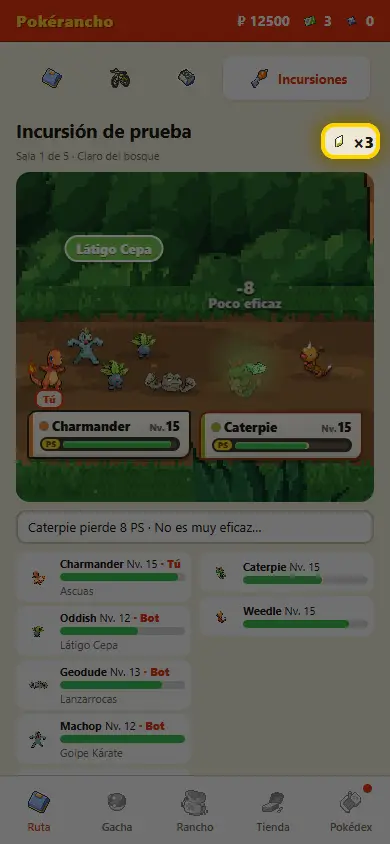
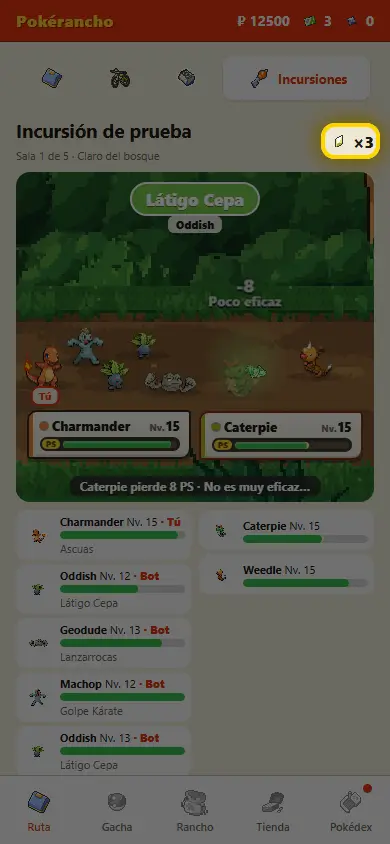
Incursiones: el ataque arriba en el centro y una línea de texto abajo
- El ataque que se usa sale arriba en el centro de la escena, grande y del color
  de su tipo, con quién lo usa debajo (antes, sobre cada Pokémon).
- Lo que pasa, en una línea pequeña abajo de la escena (antes, en un recuadro
  aparte).
- Encima de cada Pokémon, lo que le pasa: -X al golpearlo y +X en verde al
  curarlo.

diff --git a/src/ui/incursion/StageFighter.tsx b/src/ui/incursion/StageFighter.tsx
@@ -1,7 +1,5 @@
 import type { CSSProperties } from 'react'
-import { battleMove } from '../../data/learnsets'
 import { STATUS_INFO } from '../../data/passives'
-import { TYPE_INFO } from '../../data/types'
 import { EventKind } from '../../game/incursion/events'
 import { HitEffect } from '../route/HitEffect'
 import { statusClass } from '../route/battleFrame'
@@ -12,8 +10,6 @@ import { StagePop } from './StagePop'
 
 /** Tamaño del sprite de cada uno: el tuyo algo mayor, los rivales como en la ruta y el jefe más grande */
 const SIZE = { party: 84, mine: 96, foe: 104, boss: 150 }
-/** Eventos tras lanzar un ataque durante los que se sigue viendo su nombre (sus golpes) */
-const CALLOUT_EVENTS = 3
 
 export interface Spot {
   left: number
@@ -33,17 +29,16 @@ interface Props {
 }
 
 /**
- * Un Pokémon de la incursión como los del combate de ruta: encima, el nombre del ataque que lanza (del color de su tipo)
- * y los números de lo que le pasa; el efecto del golpe; embiste al atacar, tiembla al recibir, el estado alterado se ve
+ * Un Pokémon de la incursión como los del combate de ruta: encima, lo que le pasa (el golpe, una cura en verde, un
+ * estado…); el efecto del golpe; embiste al atacar, tiembla al recibir, el estado alterado se ve
  * en el sprite y, al caer, el rival se va y el del grupo se queda tumbado
  */
 export function StageFighter({ m, spot, side, mine, scene, idleDelay }: Props) {
-  const { current: e, seq, move } = scene
+  const { current: e, seq } = scene
   const mineEvent = e?.target === m.id ? e : null
   const acting = e?.kind === EventKind.Move && e.actor === m.id
   const struck = mineEvent?.kind === EventKind.Hit || mineEvent?.kind === EventKind.Miss
   const down = m.hp === 0 || m.out
-  const callout = move && move.actor === m.id && seq - move.seq < CALLOUT_EVENTS ? battleMove(move.moveId) : null
   const fxType = mineEvent?.kind === EventKind.Hit ? (mineEvent.status ? STATUS_INFO[mineEvent.status].type : mineEvent.type) : mineEvent?.kind === EventKind.Status && mineEvent.status ? STATUS_INFO[mineEvent.status].type : undefined
   const style = {
     left: `${spot.left}%`,
@@ -57,11 +52,6 @@ export function StageFighter({ m, spot, side, mine, scene, idleDelay }: Props) {
 
   return (
     <div className={`incursion-fighter ${side} ${fallen}`} style={style}>
-      {callout && (
-        <span key={move!.seq} className="move-callout" style={{ ['--type-color' as string]: TYPE_INFO[callout.type].color } as CSSProperties}>
-          {callout.name}
-        </span>
-      )}
       {mineEvent && <StagePop e={mineEvent} seq={seq} />}
       {fxType && <HitEffect key={`fx-${seq}`} type={fxType} />}
       {mine && <span className="raid-mine-tag">Tú</span>}

diff --git a/src/ui/incursion/IncursionStage.tsx b/src/ui/incursion/IncursionStage.tsx
@@ -3,7 +3,8 @@ import { EventKind } from '../../game/incursion/events'
 import { BattleHud } from '../route/BattleHud'
 import { WalkScene } from '../route/WalkScene'
 import { partySpot } from '../raid/partySpot'
-import type { SceneMon, SceneState } from './sceneState'
+import { MoveBanner } from './MoveBanner'
+import { eventLine, type SceneMon, type SceneState } from './sceneState'
 import { StageFighter, type Spot } from './StageFighter'
 import '../route/battle.css'
 import '../route/battle-callouts.css'
@@ -38,7 +39,8 @@ function shownFoe(scene: SceneState): SceneMon | undefined {
 
 /**
  * La sala que se está jugando, como un combate de ruta: el grupo a la izquierda y los rivales a la derecha, con el
- * marcador de tu Pokémon y el del rival en juego a sus pies, el destello del crítico y el aviso del jefe
+ * marcador de tu Pokémon y el del rival en juego a sus pies, el destello del crítico y el aviso del jefe. Arriba en el
+ * centro, el ataque que se usa; abajo, una línea con lo que pasa
  */
 export function IncursionStage({ biome, scene, uid }: { biome: Biome; scene: SceneState; uid: string }) {
   const e = scene.current
@@ -59,6 +61,7 @@ export function IncursionStage({ biome, scene, uid }: { biome: Biome; scene: Sce
           {scene.foes.map((m, i) => (
             <StageFighter key={m.id} m={m} spot={foeSpot(i, scene.foes.length)} side="foe" mine={false} scene={scene} idleDelay={-i * IDLE_PHASE_S} />
           ))}
+          <MoveBanner scene={scene} />
           {bossWarning && <div className="boss-warning">¡Un jefe os corta el paso!</div>}
           {mine && (
             <div className="battle-hud-slot player">
@@ -70,6 +73,7 @@ export function IncursionStage({ biome, scene, uid }: { biome: Biome; scene: Sce
               <BattleHud fighter={foe} hp={foe.hp} status={foe.status} boss={foe.boss} struck={struck(foe.id)} />
             </div>
           )}
+          <p className="incursion-caption">{eventLine(scene)}</p>
         </div>
       </WalkScene>
     </div>

diff --git a/src/ui/incursion/incursion-stage.css b/src/ui/incursion/incursion-stage.css
@@ -44,3 +44,59 @@
 .incursion-stage .battle-hud-slot.boss {
   left: 74%;
 }
+/* El ataque que se usa, arriba en el centro (como el nombre del ataque de la ruta, pero más grande) y quién lo usa */
+.incursion-move-banner {
+  position: absolute;
+  top: 12px;
+  left: 50%;
+  z-index: 3;
+  translate: -50% 0;
+  display: flex;
+  flex-direction: column;
+  align-items: center;
+  gap: 2px;
+  animation: callout-in 0.25s ease-out;
+}
+.incursion-move-name {
+  padding: 4px 14px;
+  border-radius: 99px;
+  background: var(--type-color);
+  color: #fff;
+  font-size: 17px;
+  font-weight: 900;
+  white-space: nowrap;
+  text-shadow: 0 1px 0 #0006;
+  box-shadow:
+    0 0 0 2px #fff,
+    0 3px 8px #0005;
+}
+.incursion-move-user {
+  padding: 1px 8px;
+  border-radius: 6px;
+  background: #fbfbf2dd;
+  color: var(--text);
+  font-size: 11px;
+  font-weight: 800;
+}
+/* Lo que pasa, en pequeño, abajo de la escena */
+.incursion-caption {
+  position: absolute;
+  left: 50%;
+  bottom: 6px;
+  z-index: 3;
+  translate: -50% 0;
+  max-width: calc(100% - 16px);
+  margin: 0;
+  padding: 2px 10px;
+  border-radius: 8px;
+  background: #222c;
+  color: #fff;
+  font-size: 12px;
+  font-weight: 700;
+  white-space: nowrap;
+  overflow: hidden;
+  text-overflow: ellipsis;
+}
+.incursion-caption:empty {
+  display: none;
+}

diff --git a/src/ui/incursion/IncursionView.tsx b/src/ui/incursion/IncursionView.tsx
@@ -9,7 +9,7 @@ import { IncursionStage } from './IncursionStage'
 import { IncursionSummary } from './IncursionSummary'
 import { RegroupPanel } from './RegroupPanel'
 import { RetreatVote } from './RetreatVote'
-import { eventLine, sceneAt } from './sceneState'
+import { sceneAt } from './sceneState'
 import './incursion-view.css'
 
 /** La incursión en curso: sala, revivires y pasivas; la escena, lo que pasa, el grupo y, según el momento, reorganizar o el final */
@@ -45,7 +45,6 @@ export function IncursionView({ game, a }: { game: GameState; a: ActiveIncursion
         </div>
       )}
       <IncursionStage biome={inc.biome} scene={scene} uid={a.uid} />
-      <p className="incursion-log small">{eventLine(scene)}</p>
       {p.phase === IncursionPhase.Regroup && <RegroupPanel game={game} a={a} members={members} msLeft={p.regroupMsLeft} />}
       {p.phase === IncursionPhase.Finished && <IncursionSummary outcome={p.record.outcome} earned={p.record.earned} />}
       <IncursionRoster party={scene.party} foes={scene.foes} moveOf={moveOf} uid={a.uid} nicknames={a.online?.nicknames ?? {}} />

diff --git a/src/ui/incursion/MoveBanner.tsx b/src/ui/incursion/MoveBanner.tsx
@@ -1,0 +1,21 @@
+import type { CSSProperties } from 'react'
+import { battleMove } from '../../data/learnsets'
+import { TYPE_INFO } from '../../data/types'
+import type { SceneState } from './sceneState'
+
+/** Eventos tras lanzar un ataque durante los que se sigue viendo su nombre (mientras se ven sus golpes) */
+const BANNER_EVENTS = 3
+
+/** El ataque que se está usando, arriba en el centro de la escena y del color de su tipo; debajo, quién lo usa */
+export function MoveBanner({ scene }: { scene: SceneState }) {
+  const { move, seq } = scene
+  if (!move || seq - move.seq >= BANNER_EVENTS) return null
+  const mv = battleMove(move.moveId)
+  const user = [...scene.party, ...scene.foes].find((m) => m.id === move.actor)
+  return (
+    <div key={move.seq} className="incursion-move-banner" style={{ ['--type-color' as string]: TYPE_INFO[mv.type].color } as CSSProperties}>
+      <span className="incursion-move-name">{mv.name}</span>
+      {user && <span className="incursion-move-user">{user.name}</span>}
+    </div>
+  )
+}

diff --git a/src/ui/incursion/StagePop.tsx b/src/ui/incursion/StagePop.tsx
@@ -29,7 +29,7 @@ function popContent(e: IncursionEvent): ReactNode {
     case EventKind.Miss:
       return MISS_POP[e.miss ?? 'miss']
     case EventKind.Heal:
-      return `+${e.amount ?? 0} PS`
+      return `+${e.amount ?? 0}`
     case EventKind.Status:
       return e.status ? `¡${STATUS_INFO[e.status].name}!` : null
     case EventKind.Revive:

diff --git a/src/ui/incursion/incursion-view.css b/src/ui/incursion/incursion-view.css
@@ -33,14 +33,6 @@
   font-weight: 800;
   text-shadow: 0 1px 0 #0006;
 }
-.incursion-log {
-  min-height: 2.6em;
-  margin: 0;
-  padding: 6px 10px;
-  border-radius: 10px;
-  background: var(--card);
-  border: 2px solid var(--line);
-}
 .incursion-roster {
   display: grid;
   grid-template-columns: minmax(0, 1fr) minmax(0, 1fr);

diff --git a/CLAUDE.md b/CLAUDE.md
@@ -62,7 +62,7 @@ Cada `.ts` de `src/game` tiene su `.test.ts` al lado; las pantallas, su CSS en l
 | Cuenta opcional y partida en la nube: reglas compartidas y subir o bajar / sesión y correos / subir y bajar / pantallas / servidor | `game/core/accountRules.ts`, `cloudSave.ts` / `net/account.ts` / `net/cloudSync.ts` / `ui/account/` (`AccountDialog`, `AccountHost`, `CloudChoiceDialog`, `AccountModal`) / `../worker/auth/`, `../worker/save.ts`, `../worker/db/`, `../worker/mail.ts` (texto de los correos) |
 | Obsequio diario: lista de días (a mano) / reglas / servidor / cliente / pantalla y menú del rancho | `data/dailyGifts.ts` / `game/collection/dailyGift.ts` / `../worker/gift.ts`, `../worker/db/gifts.ts` / `net/dailyGift.ts` / `ui/gift/DailyGiftSheet.tsx`, `GiftPrompt.tsx`, `giftText.ts` (aviso al entrar, desde `ui/account/AccountHost`), `ui/ranch/RanchMenu.tsx` (botón Menú, abajo a la derecha, con obsequio, Mochila, Ranking y Tutoriales; la cabecera de sus paneles, `MenuSheetHeader`; la Caja, abajo a la izquierda) |
 | Intercambios entre jugadores: reglas y límites / lo que sale y entra (repetidos) / operaciones que aplican servidor y móvil / tablón y peticiones / textos / cliente / pantallas / servidor | `game/trade/tradeGoods.ts` / `tradeGive.ts`, `tradeReceive.ts` / `tradeOps.ts` / `tradeProtocol.ts` / `goodText.ts` / `net/tradeApi.ts`, `net/tradeBoard.ts` (cada minuto; contador de Notificaciones), `net/cloudSync.ts › withCloudInSync` / `ui/shop/ShopScreen.tsx` (pestañas Tienda, Intercambios, Venta) + `ui/trade/` (`TradeScreen`, `TradeBoardView` tablón con buscador, `MyListings`, `NewListingDialog` + `OfferPicker` + `AskPicker`, `AcceptDialog`, `ListingCard`, `GoodBadge`, `CountInput` cantidad escrita a mano + `correctionGuard`, `SpeciesSearch` + `speciesMatch`) / `../worker/trade.ts`, `../worker/tradeActions.ts`, `../worker/db/trades.ts`, `../worker/db/tradeWrites.ts`, `saves.ts` (sello de intercambios) |
-| Incursiones (mazmorras de 5; con otros jugadores por el servidor o, sin él, en local con bots): tipos, llaves y lista / cada incursión (una de prueba, corta) / ataques de apoyo por tipo / repertorio por especie / pasivas de grupo / en la partida: entrar, avanzar con la hora, reorganizar, retirarse y cobrar / llaves / motor / con otros jugadores (protocolo, servidor, cliente) / pantallas | `data/incursions/` (`types`, `index`) / `cuevaHelada.ts`, `prueba.ts` / `data/supportMoves.ts` / `data/learnsets.ts` + `game/incursion/repertoire.ts` / `data/incursionPassives.ts` + `game/incursion/groupPassives.ts` / `game/incursion/incursionGame.ts` + `activeIncursion.ts` (lo guardado y por dónde va) / `game/incursion/keys.ts` + `ui/shop/IncursionKeyShop.tsx`, Mochila / `game/incursion/` (`entry` nivel mínimo y máximo para entrar, `incursionRun` tramos y retirada, `incursionLeg` un tramo, `groupBattle`, `moveEffects` + `targeting`, `groupStatus`, `bossMechanics`, `revives`, `restRooms`, `levelSync`, `party` bots, `incursionRewards`, `incursionTimeline`, `retreatVote`; diseño en `docs/incursiones.md`) / con otros jugadores: protocolo, reglas del servidor y la partida enlazada / cliente / servidor: `game/incursion/online/` (`protocol`, `requests`, `sharedIncursion` cola y grupo, `linkedIncursion` cola de la partida y aplicar lo del servidor) / `net/incursionApi.ts`, `net/incursionSync.ts` / `../worker/incursion.ts`, `../worker/db/incursions.ts`, `../migrations/0010_incursions.sql` / `ui/incursion/` (`IncursionScreen` pestaña Ruta › Incursiones, `IncursionQueueView` buscando grupo, `RetreatVote`, `IncursionList` + `IncursionInfo` información + `IncursionPrep` Pokémon y movimiento, `MovePicker` + `moveText`, `IncursionView` en curso, `IncursionStage` escena como un combate de ruta (marcadores `BattleHud` de tu Pokémon y del rival en juego) + `StageFighter` cada Pokémon (nombre del ataque, golpes, estados) + `StagePop` números flotantes + `incursion-stage.css`, `sceneState` cómo está en cada momento, `IncursionRoster`, `RegroupPanel`, `IncursionSummary`) |
+| Incursiones (mazmorras de 5; con otros jugadores por el servidor o, sin él, en local con bots): tipos, llaves y lista / cada incursión (una de prueba, corta) / ataques de apoyo por tipo / repertorio por especie / pasivas de grupo / en la partida: entrar, avanzar con la hora, reorganizar, retirarse y cobrar / llaves / motor / con otros jugadores (protocolo, servidor, cliente) / pantallas | `data/incursions/` (`types`, `index`) / `cuevaHelada.ts`, `prueba.ts` / `data/supportMoves.ts` / `data/learnsets.ts` + `game/incursion/repertoire.ts` / `data/incursionPassives.ts` + `game/incursion/groupPassives.ts` / `game/incursion/incursionGame.ts` + `activeIncursion.ts` (lo guardado y por dónde va) / `game/incursion/keys.ts` + `ui/shop/IncursionKeyShop.tsx`, Mochila / `game/incursion/` (`entry` nivel mínimo y máximo para entrar, `incursionRun` tramos y retirada, `incursionLeg` un tramo, `groupBattle`, `moveEffects` + `targeting`, `groupStatus`, `bossMechanics`, `revives`, `restRooms`, `levelSync`, `party` bots, `incursionRewards`, `incursionTimeline`, `retreatVote`; diseño en `docs/incursiones.md`) / con otros jugadores: protocolo, reglas del servidor y la partida enlazada / cliente / servidor: `game/incursion/online/` (`protocol`, `requests`, `sharedIncursion` cola y grupo, `linkedIncursion` cola de la partida y aplicar lo del servidor) / `net/incursionApi.ts`, `net/incursionSync.ts` / `../worker/incursion.ts`, `../worker/db/incursions.ts`, `../migrations/0010_incursions.sql` / `ui/incursion/` (`IncursionScreen` pestaña Ruta › Incursiones, `IncursionQueueView` buscando grupo, `RetreatVote`, `IncursionList` + `IncursionInfo` información + `IncursionPrep` Pokémon y movimiento, `MovePicker` + `moveText`, `IncursionView` en curso, `IncursionStage` escena como un combate de ruta (marcadores `BattleHud` de tu Pokémon y del rival en juego) + `StageFighter` cada Pokémon (nombre del ataque, golpes, estados) + `StagePop` números flotantes (curas en verde) + `MoveBanner` el ataque que se usa, arriba en el centro + `incursion-stage.css`, `sceneState` cómo está en cada momento, `IncursionRoster`, `RegroupPanel`, `IncursionSummary`) |
 | Venta al servidor (precios por rareza) | `game/trade/serverSale.ts` + `ui/sell/` (`SellScreen`, `SellCountDialog`) |
 | Notificaciones del menú (obsequio listo, cada premio de raid y lo de los intercambios; «Recoger todo») | `ui/inbox/` (`InboxSheet`, `InboxRow` una fila, `useInboxCollect` recoger, `useInboxCount` contador del Menú), desde `ui/ranch/RanchMenu.tsx`; un premio suelto: `game/raid/raidPrizes.ts › collectRaidPrize` |
 | Mochila (lo comprado y sin usar) | `game/team/bag.ts` + `ui/bag/BagSheet.tsx` |
